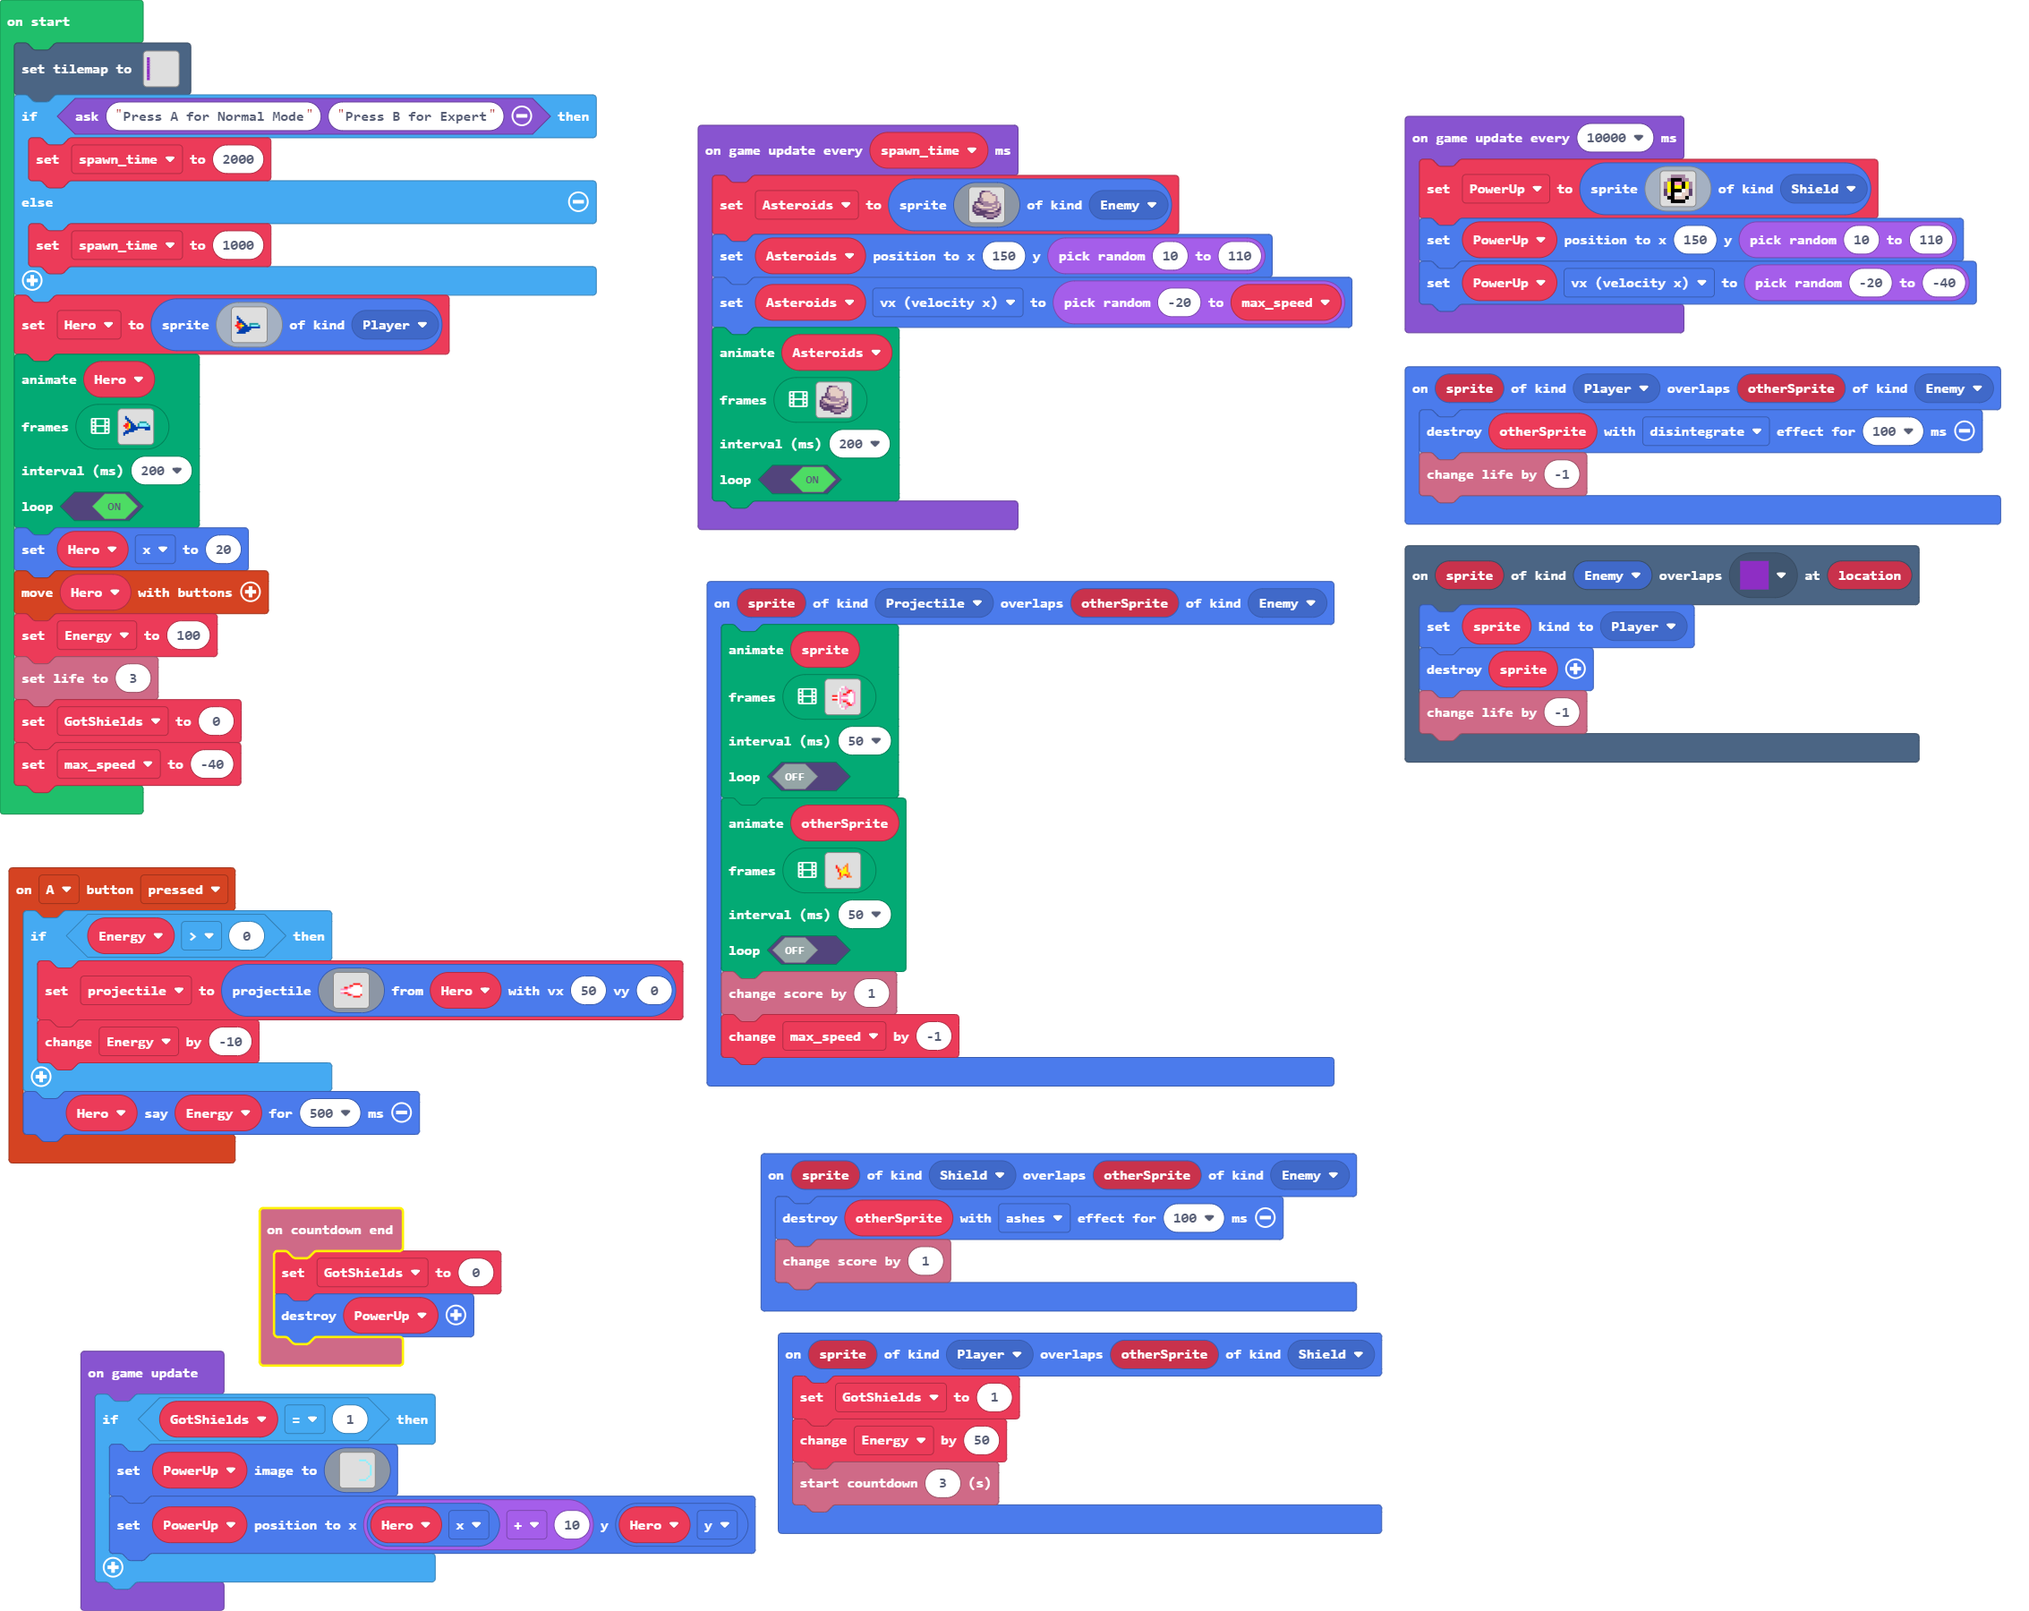
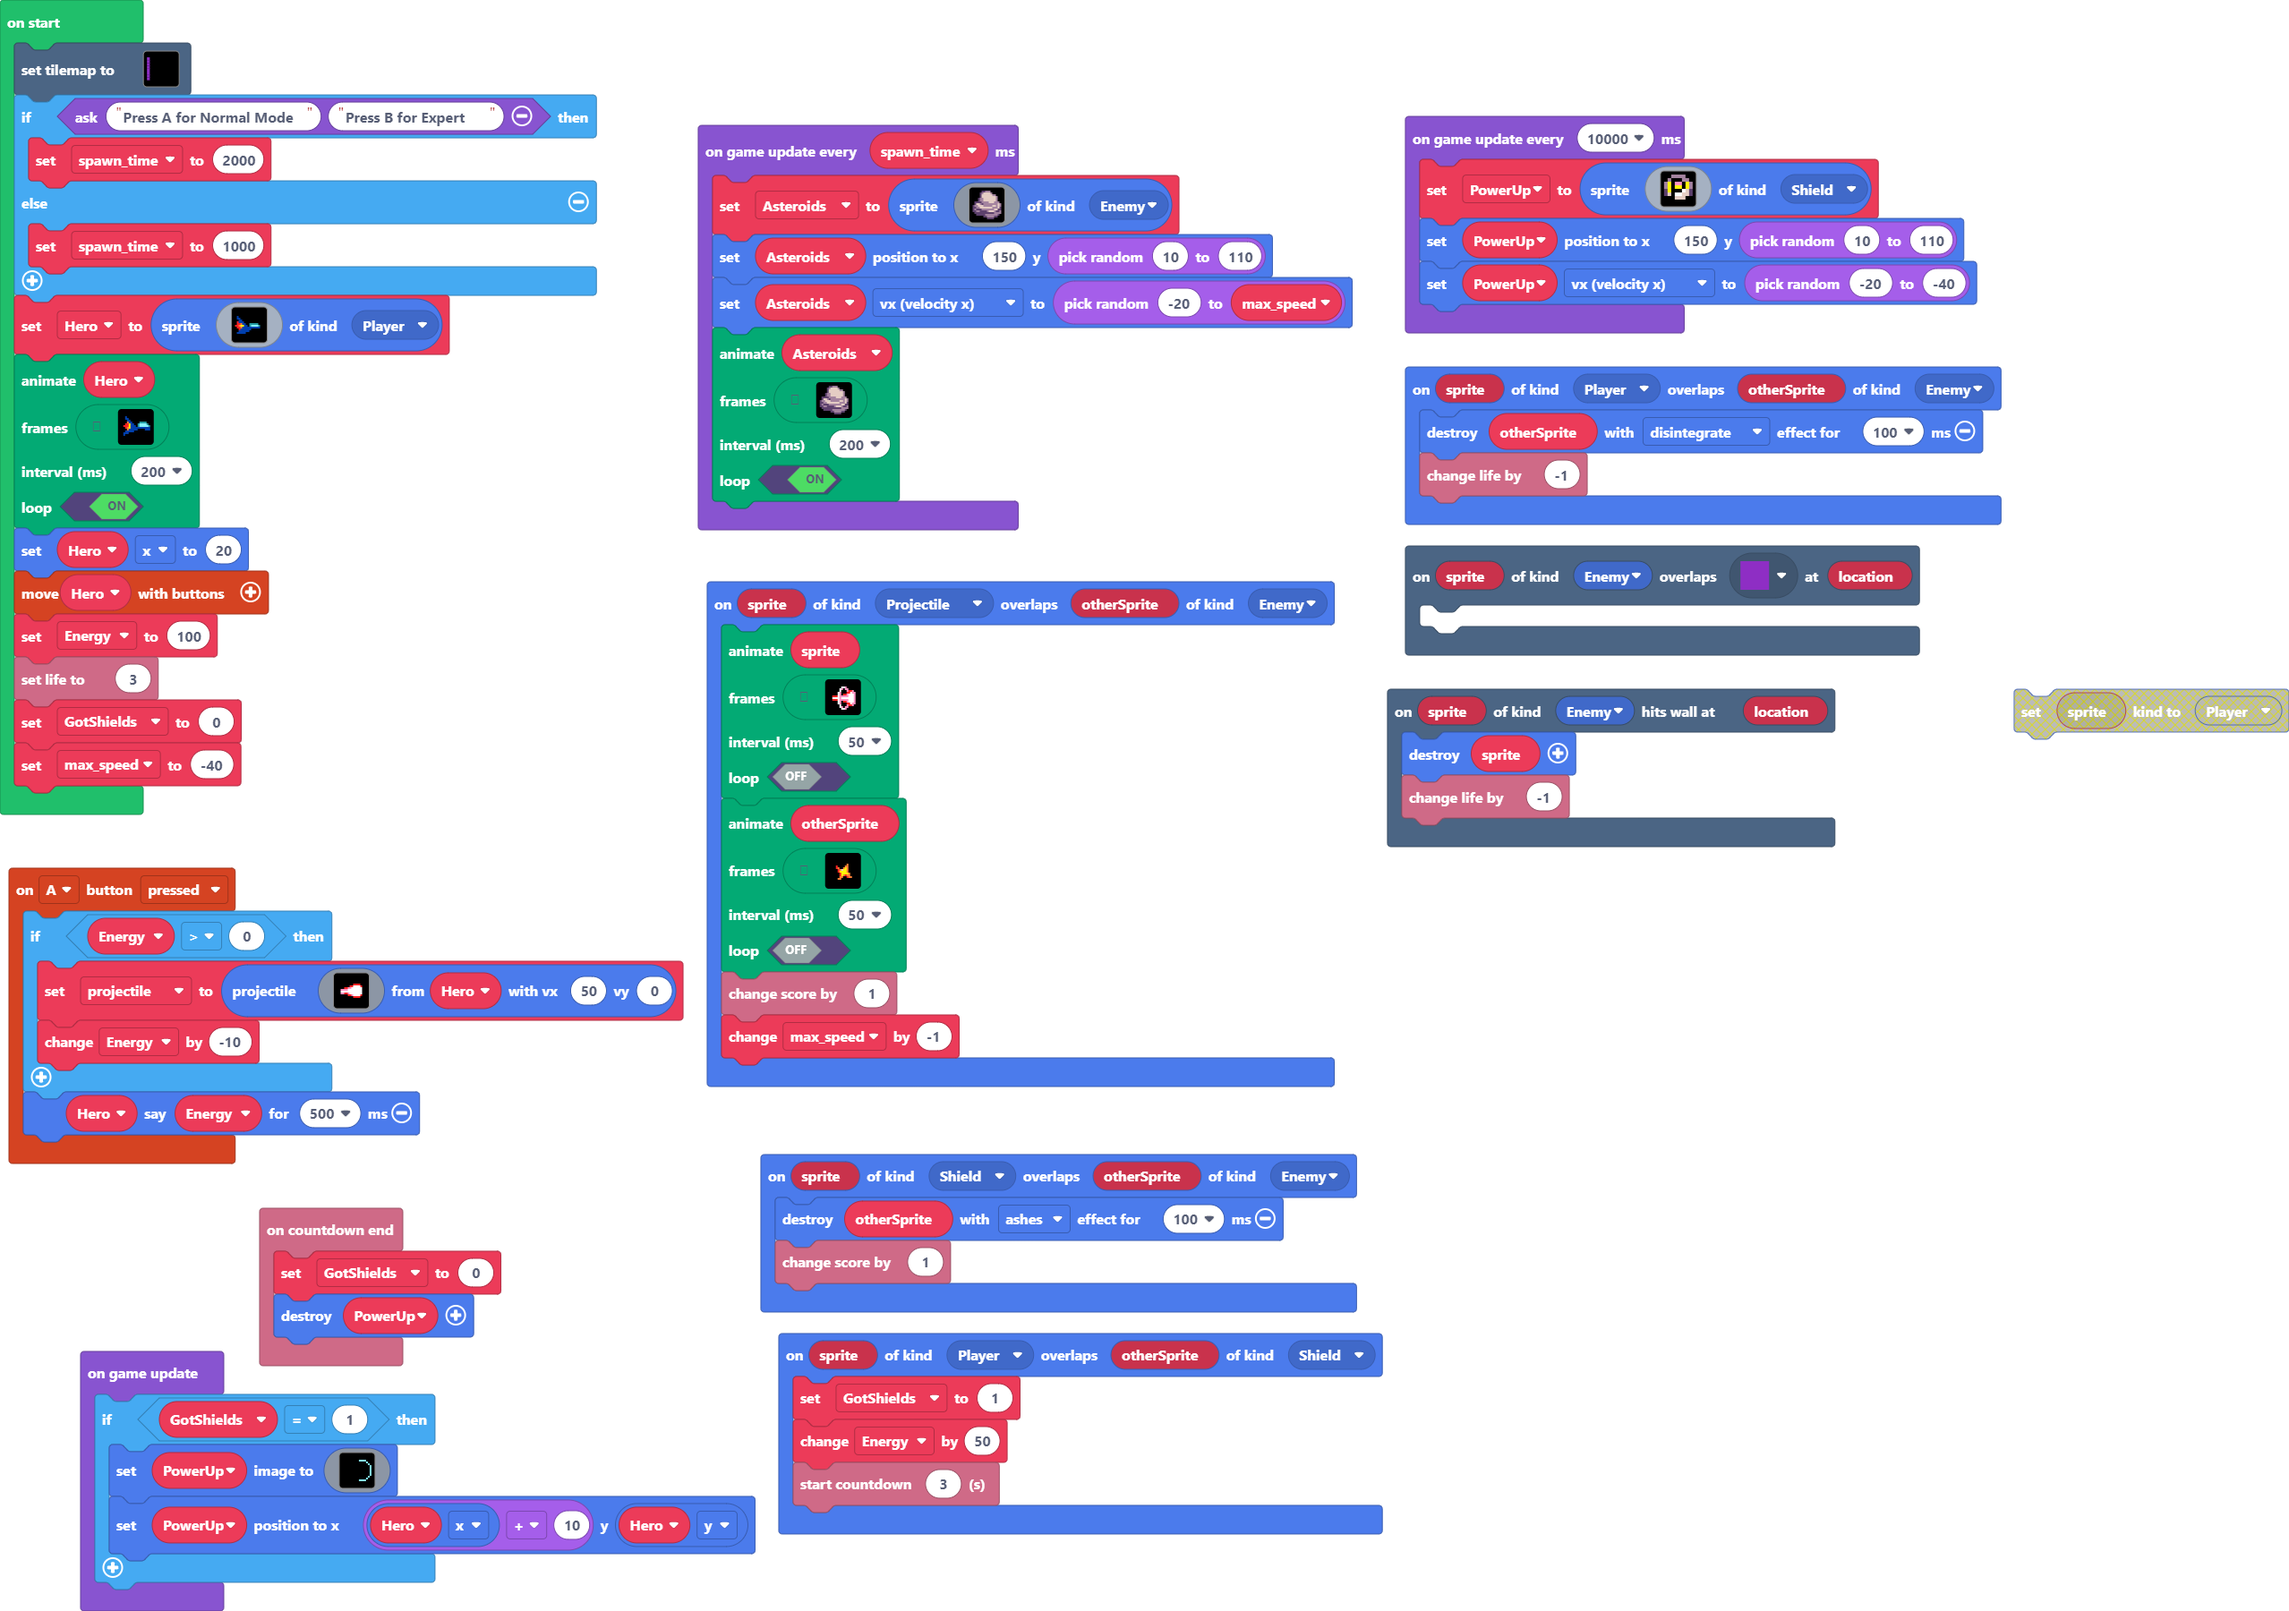
Update pxt.json, main.blocks, main.ts, tilemap.g.jres, tilemap.g.ts

Changed region(s): [[0.0, 0.0, 1.0, 1.0], [0.5558, 0.6533, 0.6793, 0.6844], [0.5867, 0.9333, 0.6793, 0.9644]]

diff --git a/tilemap.g.ts b/tilemap.g.ts
@@ -7,14 +7,14 @@ namespace myTiles {
         switch(helpers.stringTrim(name)) {
             case "level1":
[1 lines of base64/hex data omitted]
-. . . . . . . . . . 
-. . . . . . . . . . 
-. . . . . . . . . . 
-. . . . . . . . . . 
-. . . . . . . . . . 
-. . . . . . . . . . 
-. . . . . . . . . . 
-. . . . . . . . . . 
+2 . . . . . . . . . 
+2 . . . . . . . . . 
+2 . . . . . . . . . 
+2 . . . . . . . . . 
+2 . . . . . . . . . 
+2 . . . . . . . . . 
+2 . . . . . . . . . 
+2 . . . . . . . . . 
 `, [myTiles.transparency16,sprites.swamp.swampTile9], TileScale.Sixteen);
         }
         return null;

diff --git a/main.ts b/main.ts
@@ -3,9 +3,7 @@ namespace SpriteKind {
     export const Powerup_kind = SpriteKind.create()
 }
 scene.onOverlapTile(SpriteKind.Enemy, sprites.swamp.swampTile9, function (sprite, location) {
-    sprite.setKind(SpriteKind.Player)
-    sprite.destroy()
-    info.changeLifeBy(-1)
+	
 })
 controller.A.onEvent(ControllerButtonEvent.Pressed, function () {
     if (Energy > 0) {
@@ -34,6 +32,10 @@ controller.A.onEvent(ControllerButtonEvent.Pressed, function () {
 info.onCountdownEnd(function () {
     GotShields = 0
     PowerUp.destroy()
+})
+scene.onHitWall(SpriteKind.Enemy, function (sprite, location) {
+    sprite.destroy()
+    info.changeLifeBy(-1)
 })
 sprites.onOverlap(SpriteKind.Shield, SpriteKind.Enemy, function (sprite, otherSprite) {
     otherSprite.destroy(effects.ashes, 100)
